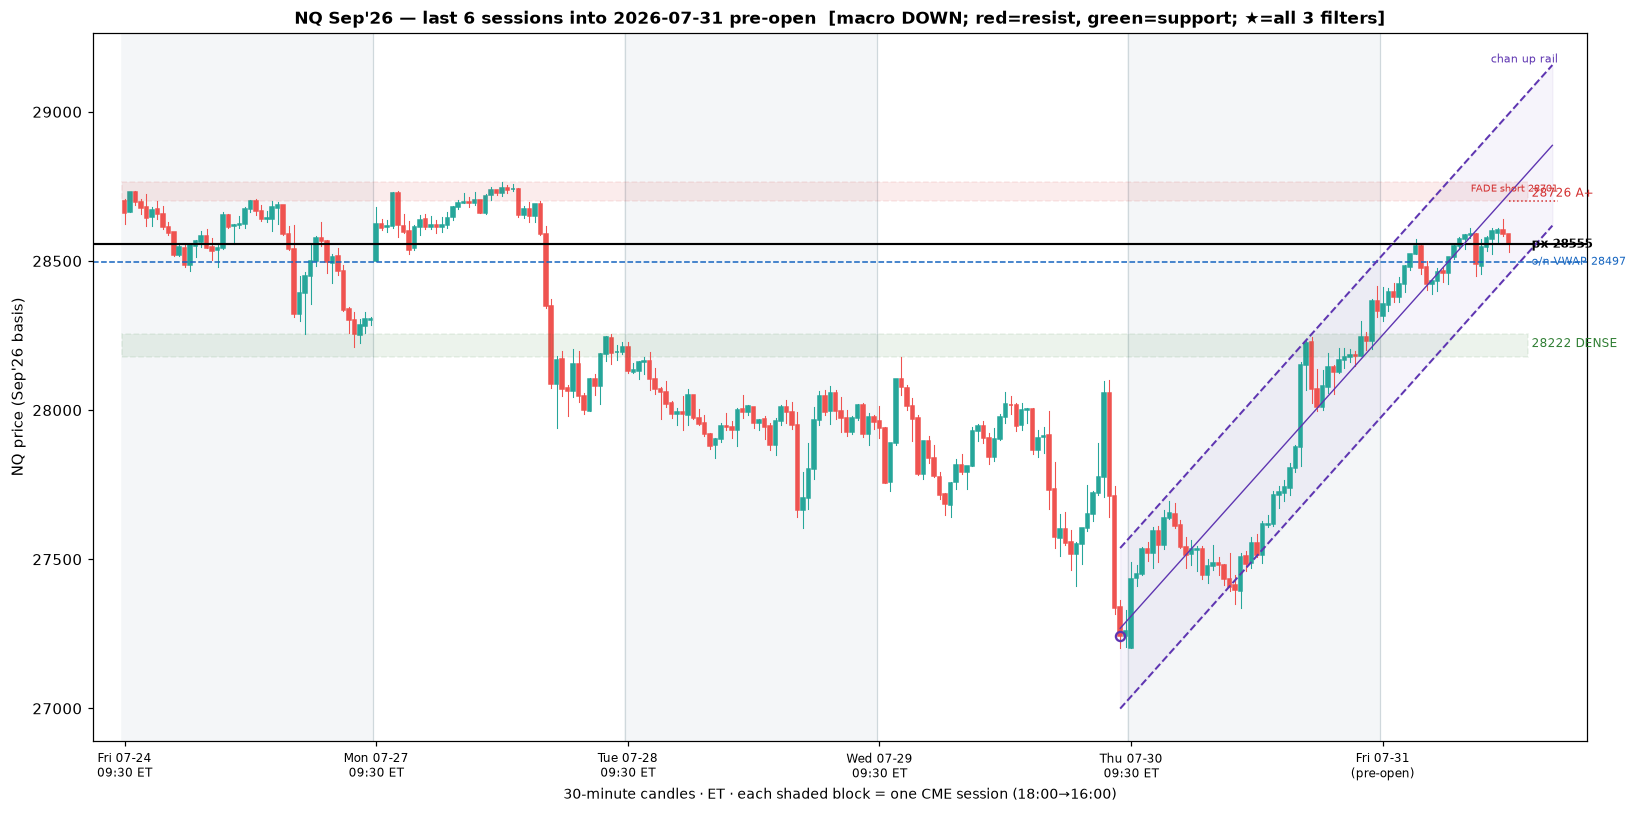
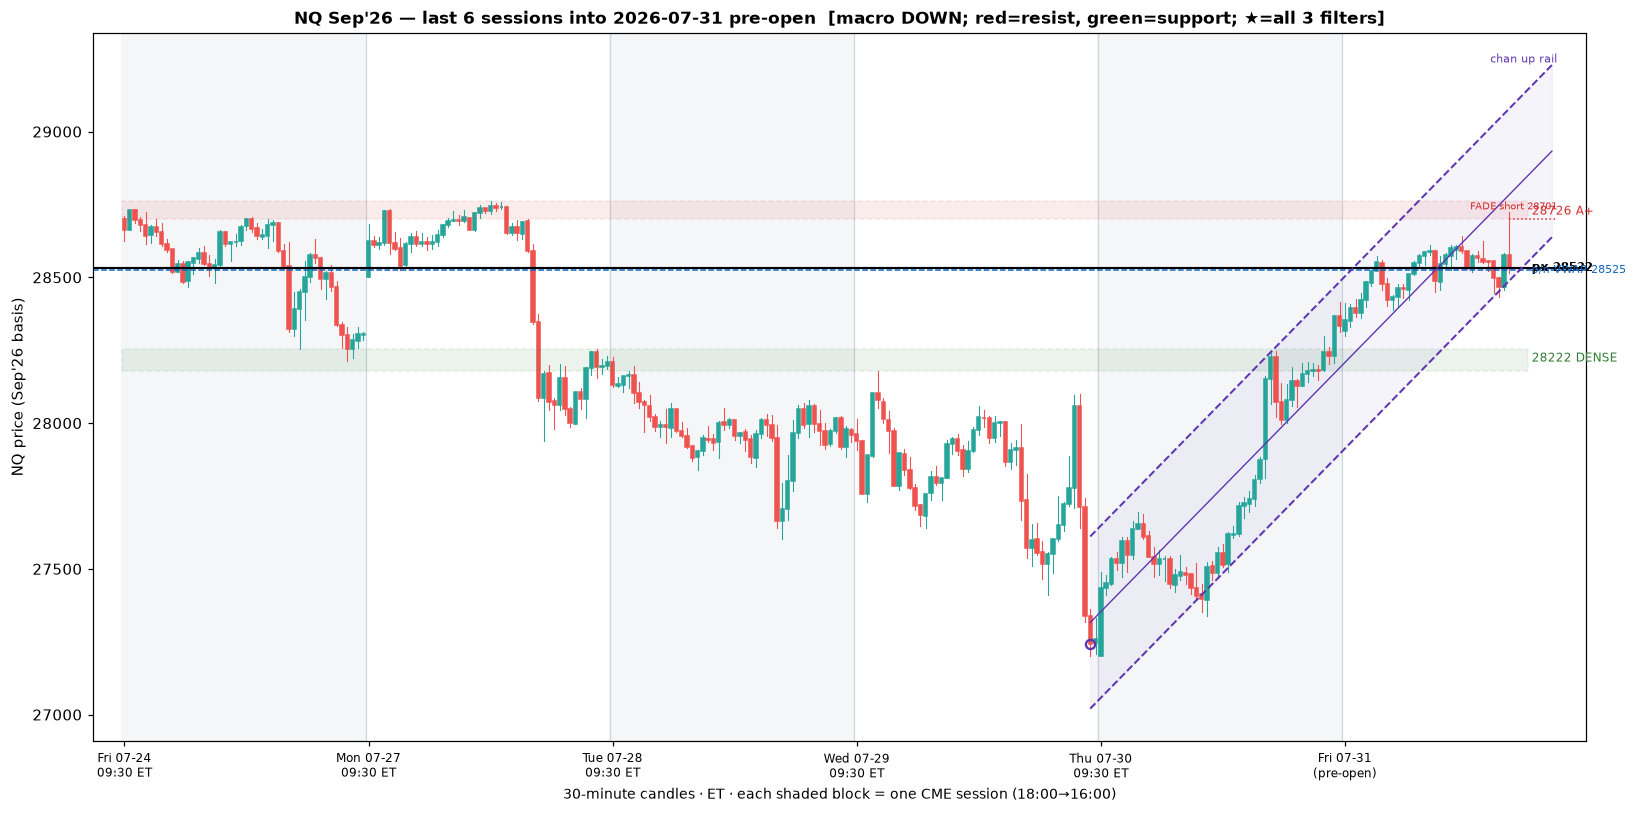
Add ToS thinkScript + TradingView Pine chart studies; rerun NQ 07-31 RTH open
charts/nq_confluence.ts (thinkScript, for ThinkOrSwim) and .pine (Pine v5, for
TradingView) port the three-filter system: manual daily zones + native macro
10/20 SMA bias + session VWAP sigma-stretch + regression channel + trend-aligned
FADE (tag+stretch) and BREAK (close-thru, with trend) signals & alerts. README
with load steps and today's zone values. ToS uses thinkScript not Pine - both
provided. Rerun: NQ +1.04% to 28532, o/n high tagged the 28726 shelf and
rejected; back at VWAP, no armed trigger until a stretched re-test.

Claude-Session: https://claude.ai/code/session_016aQdjV8pEkud2m7UoLztFR

diff --git a/charts/nq_confluence.ts b/charts/nq_confluence.ts
@@ -1,0 +1,103 @@
+# =====================================================================
+# NQ Confluence — three-filter system  (ThinkOrSwim / thinkScript)
+#   FILTER 1 LOCATION  : A+/DENSE zones (edit the ZONE inputs daily)
+#   FILTER 2 DIRECTION : macro bias from the daily 10/20 SMA
+#   FILTER 3 EXTENSION : session VWAP +/- sigma stretch
+#   + regression channel (breakout / tap-retrace context)
+#   + fade / break signals & alerts, trend-aligned only
+#
+# NOTE: ThinkOrSwim uses thinkScript, NOT Pine. Paste this into
+#   Studies > Create > thinkScript Editor. Apply to a 30-min NQ (/NQ or /MNQ)
+#   chart. Update the ZONE inputs each morning from the three_filter_read output.
+# =====================================================================
+declare upper;
+
+input kStretch     = 0.5;    # min |VWAP sigma| for the EXTENSION filter
+input chanLen      = 60;     # regression-channel lookback (bars)
+input chanDev      = 2.0;    # channel half-width in residual sigma
+input showChannel  = yes;
+input showVWAPbands = yes;
+
+# ---- ZONES (edit daily): hi / lo / is-resistance ----
+input z1_hi = 28763.0;  input z1_lo = 28701.0;  input z1_resist = yes;   # A+ breakdown shelf
+input z2_hi = 28254.0;  input z2_lo = 28178.0;  input z2_resist = no;    # DENSE support
+input z3_hi = 28111.0;  input z3_lo = 27990.0;  input z3_resist = no;    # DENSE support
+
+# ---- FILTER 2: macro DIRECTION (daily 10/20 SMA + position) ----
+def dClose = close(period = AggregationPeriod.DAY);
+def sma10  = Average(dClose, 10);
+def sma20  = Average(dClose, 20);
+def bias   = if sma10 > sma20 and dClose > sma20 then 1
+             else if sma10 < sma20 and dClose < sma20 then -1 else 0;
+
+# ---- FILTER 3: session VWAP + sigma, stretch = (close-VWAP)/sigma ----
+def newDay  = GetDay() != GetDay()[1];
+def vSum    = if newDay then volume else vSum[1] + volume;
+def pvSum   = if newDay then volume * hlc3 else pvSum[1] + volume * hlc3;
+def vwap    = pvSum / vSum;
+def varSum  = if newDay then volume * Sqr(hlc3 - vwap) else varSum[1] + volume * Sqr(hlc3 - vwap);
+def sigma   = Sqrt(varSum / vSum);
+def stretch = if sigma > 0 then (close - vwap) / sigma else 0;
+
+plot VWAP = vwap;
+VWAP.SetDefaultColor(Color.CYAN);
+plot VWAPup = if showVWAPbands then vwap + kStretch * sigma else Double.NaN;
+plot VWAPdn = if showVWAPbands then vwap - kStretch * sigma else Double.NaN;
+VWAPup.SetDefaultColor(Color.DARK_GRAY);  VWAPup.SetStyle(Curve.SHORT_DASH);
+VWAPdn.SetDefaultColor(Color.DARK_GRAY);  VWAPdn.SetStyle(Curve.SHORT_DASH);
+
+# ---- FILTER 1: LOCATION zones (red = resistance, green = support) ----
+AddCloud(z1_hi, z1_lo, if z1_resist then Color.RED else Color.GREEN,
+                       if z1_resist then Color.RED else Color.GREEN);
+AddCloud(z2_hi, z2_lo, if z2_resist then Color.RED else Color.GREEN,
+                       if z2_resist then Color.RED else Color.GREEN);
+AddCloud(z3_hi, z3_lo, if z3_resist then Color.RED else Color.GREEN,
+                       if z3_resist then Color.RED else Color.GREEN);
+
+# ---- regression channel (trailing linreg + residual sigma) ----
+def regMid = Inertia(close, chanLen);
+def rstd   = StDev(close - regMid, chanLen);
+plot RegMid = if showChannel then regMid else Double.NaN;
+plot RegUp  = if showChannel then regMid + chanDev * rstd else Double.NaN;
+plot RegLo  = if showChannel then regMid - chanDev * rstd else Double.NaN;
+RegMid.SetDefaultColor(Color.VIOLET);
+RegUp.SetDefaultColor(Color.VIOLET);  RegUp.SetStyle(Curve.SHORT_DASH);
+RegLo.SetDefaultColor(Color.VIOLET);  RegLo.SetStyle(Curve.SHORT_DASH);
+
+# =====================================================================
+# SIGNALS — trend-aligned only (matches the backtested rules)
+#   FADE  : tag a trend-aligned zone + >= kStretch sigma  (mean-reversion)
+#   BREAK : 30m close THROUGH a trend-aligned level, with trend (continuation)
+# =====================================================================
+def fadeShort = bias < 0 and z1_resist and high >= z1_lo and close < z1_lo and stretch >= kStretch;
+def fadeLong  = bias > 0 and !z1_resist and low  <= z1_hi and close > z1_hi and stretch <= -kStretch;
+
+def brkShort  = bias < 0 and ((!z2_resist and close < z2_lo and close[1] >= z2_lo) or
+                              (!z3_resist and close < z3_lo and close[1] >= z3_lo));
+def brkLong   = bias > 0 and ((z2_resist and close > z2_hi and close[1] <= z2_hi) or
+                              (z3_resist and close > z3_hi and close[1] <= z3_hi));
+
+plot FadeShort = if fadeShort then high else Double.NaN;
+FadeShort.SetPaintingStrategy(PaintingStrategy.BOOLEAN_ARROW_DOWN);
+FadeShort.SetDefaultColor(Color.RED);
+plot FadeLong = if fadeLong then low else Double.NaN;
+FadeLong.SetPaintingStrategy(PaintingStrategy.BOOLEAN_ARROW_UP);
+FadeLong.SetDefaultColor(Color.GREEN);
+plot BrkShort = if brkShort then low else Double.NaN;
+BrkShort.SetPaintingStrategy(PaintingStrategy.BOOLEAN_ARROW_DOWN);
+BrkShort.SetDefaultColor(Color.MAGENTA);
+plot BrkLong = if brkLong then high else Double.NaN;
+BrkLong.SetPaintingStrategy(PaintingStrategy.BOOLEAN_ARROW_UP);
+BrkLong.SetDefaultColor(Color.MAGENTA);
+
+Alert(fadeShort, "NQ FADE-short: zone tag + stretch (with trend)", Alert.BAR, Sound.Ring);
+Alert(fadeLong,  "NQ FADE-long: zone tag + stretch (with trend)",  Alert.BAR, Sound.Ring);
+Alert(brkShort,  "NQ BREAK-short: 30m close thru support (with trend)", Alert.BAR, Sound.Bell);
+Alert(brkLong,   "NQ BREAK-long: 30m close thru resistance (with trend)", Alert.BAR, Sound.Bell);
+
+# ---- status labels ----
+AddLabel(yes, "Macro " + (if bias > 0 then "UP" else if bias < 0 then "DOWN" else "MIXED"),
+         if bias < 0 then Color.RED else if bias > 0 then Color.GREEN else Color.GRAY);
+AddLabel(yes, "Stretch " + Round(stretch, 1) + "s",
+         if AbsValue(stretch) >= kStretch then Color.YELLOW else Color.GRAY);
+AddLabel(yes, "VWAP " + Round(vwap, 0), Color.CYAN);

diff --git a/scripts/three_filter_read.py b/scripts/three_filter_read.py
@@ -33,7 +33,7 @@ import scripts.backtest_confluence as bt
 from scripts.sim_15day import macro_bias, WIN_F, BUF_F
 
 ET = "America/New_York"
-LIVE_PX = 28555.25
+LIVE_PX = 28532.5
 K_STRETCH = 0.5
 CHART_SESSIONS = 6
 
@@ -102,9 +102,9 @@ def main():
     sd = float(np.sqrt(((tp - vwap) ** 2 * v).cumsum().iloc[-1] / cv.iloc[-1]))
     stretch = (px - vwap) / sd if sd else 0.0
 
-    print(f"NQ three-filter read — {cur_date} PRE-OPEN (overnight Globex)   price {px:.0f}")
+    print(f"NQ three-filter read — {cur_date} RTH OPEN (~09:40 ET)   price {px:.0f}")
     print(f"  CONTRACT: front Sep'26 (exp 09-18)  |  back Dec'26  |  next roll ~Sep 10  |  basis: Sep, single")
-    print(f"  prior RTH close 28238   overnight range 28300-28641   +318 (+1.12%)  [~05:40 ET, pre-open]")
+    print(f"  prior RTH close 28238   o/n range 28300-28726   +295 (+1.04%)  [o/n high TAGGED 28726 shelf, rejected]")
     print(f"  macro series: {len(daily)} Sep-basis daily closes {daily.index[0]}..{daily.index[-1]}\n")
     print(f"FILTER 2 DIRECTION : macro bias {bias_txt}  (10d SMA {s10:.0f} vs 20d SMA {s20:.0f}) "
           f"-> {'SHORT resistance only' if bias<0 else ('LONG support only' if bias>0 else 'stand aside')}\n")

diff --git a/charts/README.md b/charts/README.md
@@ -1,0 +1,43 @@
+# NQ Confluence — chart studies
+
+Ports of the three-filter system (`scripts/three_filter_read.py`) onto broker charts.
+
+| File | Platform | Language |
+|------|----------|----------|
+| `nq_confluence.ts`   | **ThinkOrSwim** | thinkScript |
+| `nq_confluence.pine` | **TradingView** | Pine v5 |
+
+> ThinkOrSwim runs **thinkScript**, not Pine — use the `.ts` file there. The `.pine`
+> file is only for TradingView.
+
+## What it draws
+- **Zones** (FILTER 1) — red = resistance, green = support. *Manual inputs, updated daily.*
+- **Macro bias** (FILTER 2) — daily 10/20 SMA → label UP/DOWN/MIXED; gates every signal.
+- **VWAP ± σ bands** (FILTER 3) — the stretch (`(close−VWAP)/σ`) shown in the status label.
+- **Regression channel** — trailing linreg ± σ (breakout / tap-retrace context).
+- **Signals + alerts**, trend-aligned only:
+  - **FADE** ▽/△ — tag a trend-aligned zone **and** ≥0.5σ stretched (mean-reversion).
+  - **BREAK** ✕ — a close **through** a trend-aligned level, with trend (continuation).
+
+## Load
+- **ToS:** Studies → Edit Studies → Create → paste `nq_confluence.ts` → apply to a **30-min /NQ (or /MNQ)** chart. Right-click the study → *Create alert* on the plots if you want push alerts.
+- **TV:** Pine Editor → paste `nq_confluence.pine` → Add to chart (30-min **NQ1!/MNQ1!**) → set alerts from the four `alertcondition`s.
+
+## Update the zones each morning
+Run `python3 scripts/three_filter_read.py` and copy the zone rows into the Z1/Z2/Z3 inputs
+(hi, lo, is-resistance). Example — **2026-07-31**:
+
+| input | hi | lo | resistance? |
+|-------|----|----|-------------|
+| Z1 (A+ breakdown shelf) | 28763 | 28701 | yes |
+| Z2 (DENSE support)      | 28254 | 28178 | no |
+| Z3 (DENSE support)      | 28111 | 27990 | no |
+
+## Caveats (read once)
+- Zones, and the `shelf` source behind them, are computed in Python — the study can't
+  rebuild them, so you paste them in daily. Everything else (bias, VWAP σ, channel, signals)
+  is native and live.
+- The channel here is a **trailing** linear regression; the Python version anchors at the
+  current leg's origin. Close enough on-chart, not identical.
+- Signals are decision prompts, not auto-orders. The edge that backtested is **fade only when
+  stretched** and **break only with trend** — the script encodes exactly those.
